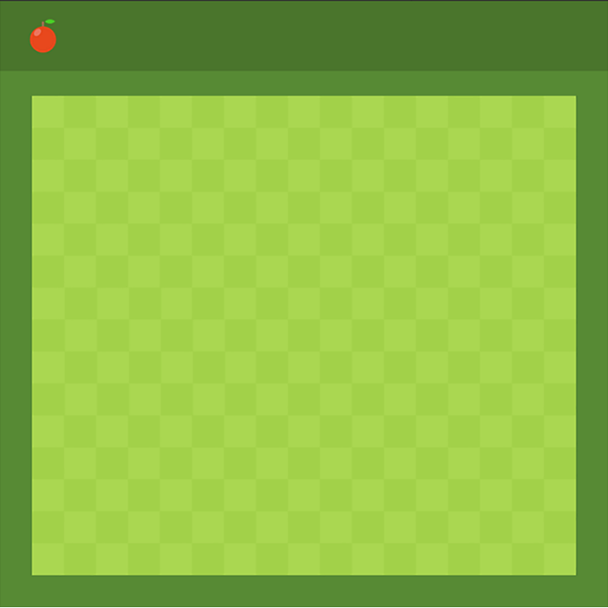
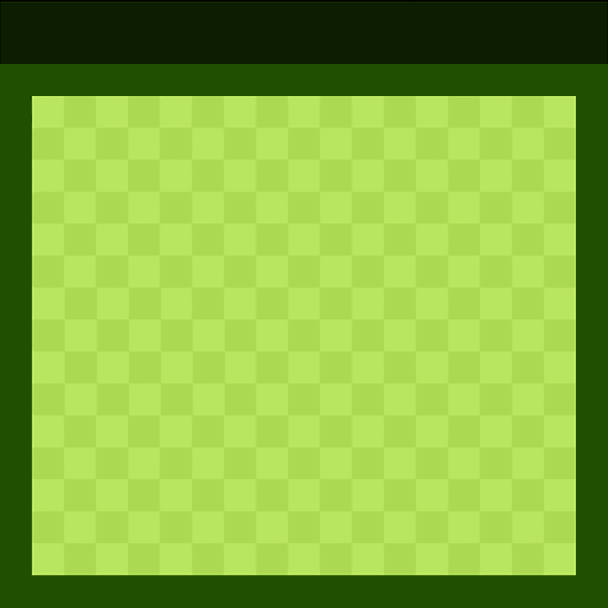
Changes to improve UI

Changed region(s): [[0.0, 0.0, 1.0, 1.0]]

diff --git a/snake.js b/snake.js
@@ -10,19 +10,22 @@ function Snake() {
   this.lastDirection = -1;
 
 
+
   // Context is getting the context from the 2D canvas
   this.draw = function () {
-    context.fillStyle = '#DEE2E3';
-    context.lineWidth = 1;
-    context.strokeStyle = '#33988C';
+    context.fillStyle = '#58D68D';
+    context.strokeStyle = 'white';
 
     for (let i = 0; i < this.tail.length; i++) {
-      context.lineWidth = 1;
-      context.strokeStyle = '#33988C';
-      context.strokeRect(this.tail[i].x, this.tail[i].y, scale, scale); //for white background
-      context.fillRect(this.tail[i].x, this.tail[i].y, scale, scale); // x - top left to top right, y is from top to bottom // starting Point x, point y, size, size 
+      context.beginPath();
+      context.arc(this.tail[i].x + 16, this.tail[i].y + 16, 15, 0, 2 * Math.PI);
+      context.fill()
+      context.stroke();
     }
-    context.fillRect(this.x, this.y, scale, scale);
+    context.beginPath();
+    context.arc(this.x + 16, this.y + 16, 15, 0, 2 * Math.PI);
+    context.fill()
+    context.stroke();
   };
 
   this.update = function () {
@@ -87,12 +90,7 @@ function Snake() {
         this.collisionDetected();
       }
     }
-    if (
-      this.x >= canvas.width ||
-      this.y >= canvas.height ||
-      this.x < 0 ||
-      this.y < 0
-    ) {
+    if (this.x >= canvas.width || this.y >= canvas.height || this.x < 0 || this.y < scale * 2) {
       this.collisionDetected();
     }
   };
@@ -108,8 +106,8 @@ function Snake() {
   this.reset = function () {
     this.total = 0;
     this.tail = [];
-    this.x = 0;
-    this.y = 0;
+    this.x = 32;
+    this.y = scale * 3;
     this.xSpeed = scale * 1;
     this.ySpeed = 0;
     this.paused = false;

diff --git a/draw.js b/draw.js
@@ -12,12 +12,17 @@ function setup() {
   fruit = new Fruit();
   groundImage = new Image();
   groundImage.src = 'ground.png';
-  context.fillStyle = "white";
+  context.fillStyle = 'white';
   context.font = '26px Changa one';
   fruit.pickLocation(); // Choose random location
 }; // double bracket at the end makes it run
 
 setup();
+
+function showTitle() {
+  context.fillStyle = 'white';
+  context.fillText(this.title, rows * 4, columns * 2.5);
+}
 
 
 function updateGame() {
@@ -28,23 +33,23 @@ function updateGame() {
 
   if (snake.paused == false) {
     snake.update();
+    this.showTitle();
 
     this.title = 'Highest Score: ' + localStorage['highestScoreKey'] || '0';
-    context.fillText(this.title, rows * 4, columns * 3);
 
     snake.eat(fruit) ? fruit.pickLocation() : snake.checkCollision();
     document.querySelector('.score').innerHTML = snake.total; // Update score
 
     this.title = 'Highest Score: ' + localStorage['highestScoreKey'] || '0'; // Display highest Score
-    context.fillText(this.title, rows * 4, columns * 3);
+    context.fillText(this.title, rows * 4, columns * 2.5);
   }
   if (snake.paused & !snake.gameOver) {
     this.title = 'Highest Score: ' + localStorage['highestScoreKey'] + ' Paused';
-    context.fillText(this.title, rows * 4, columns * 3);
-  }
-  if (snake.gameOver && snake.paused) {
+    this.showTitle();
+
+  } else if (snake.gameOver && snake.paused) {
     this.title = 'Highest Score: ' + localStorage['highestScoreKey'] + ' Game Over';
-    context.fillText(this.title, rows * 4, columns * 3);
+    this.showTitle();
     this.highestScore();
   }
 }

diff --git a/fruit.js b/fruit.js
@@ -9,12 +9,12 @@ function Fruit() {
 
   this.draw = function () {
     // Draw fruit
-    context.fillStyle = '#ACE3D0';
-    context.fillRect(this.x, this.y, scale, scale);
-
-    // extras
-    // context.lineWidth = 5;
-    // context.strokeStyle = '#33998C';
-    // context.strokeRect(0, 0, canvas.width, canvas.height); //for white background
+    context.fillStyle = '#cc0000';
+    context.lineWidth = 1;
+    context.strokeStyle = '#17202A';
+    context.beginPath();
+    context.arc(this.x + 16, this.y + 16, 15, 0, 2 * Math.PI);
+    context.fill()
+    context.stroke();
   };
 }
